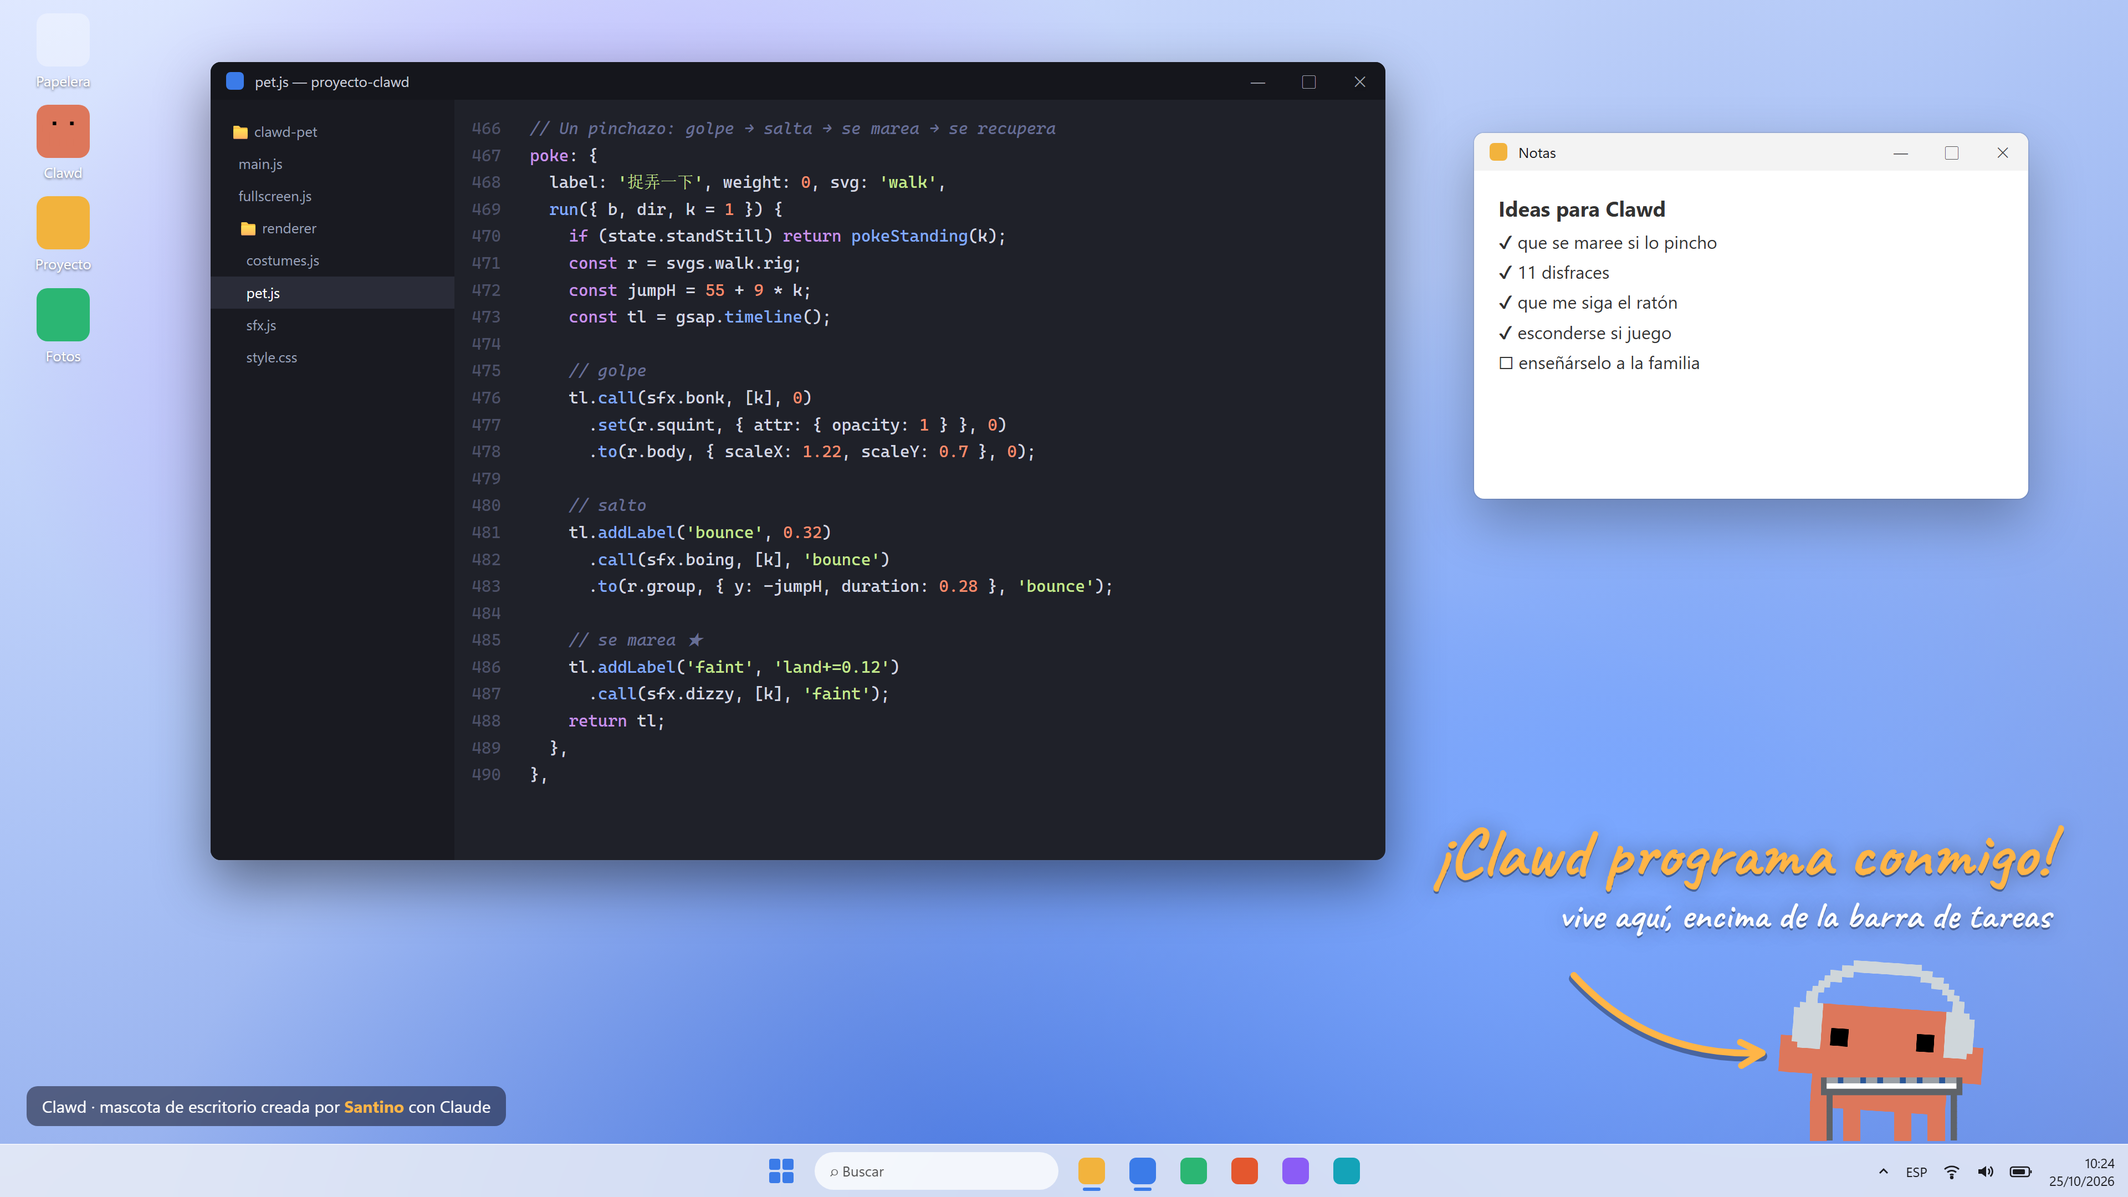
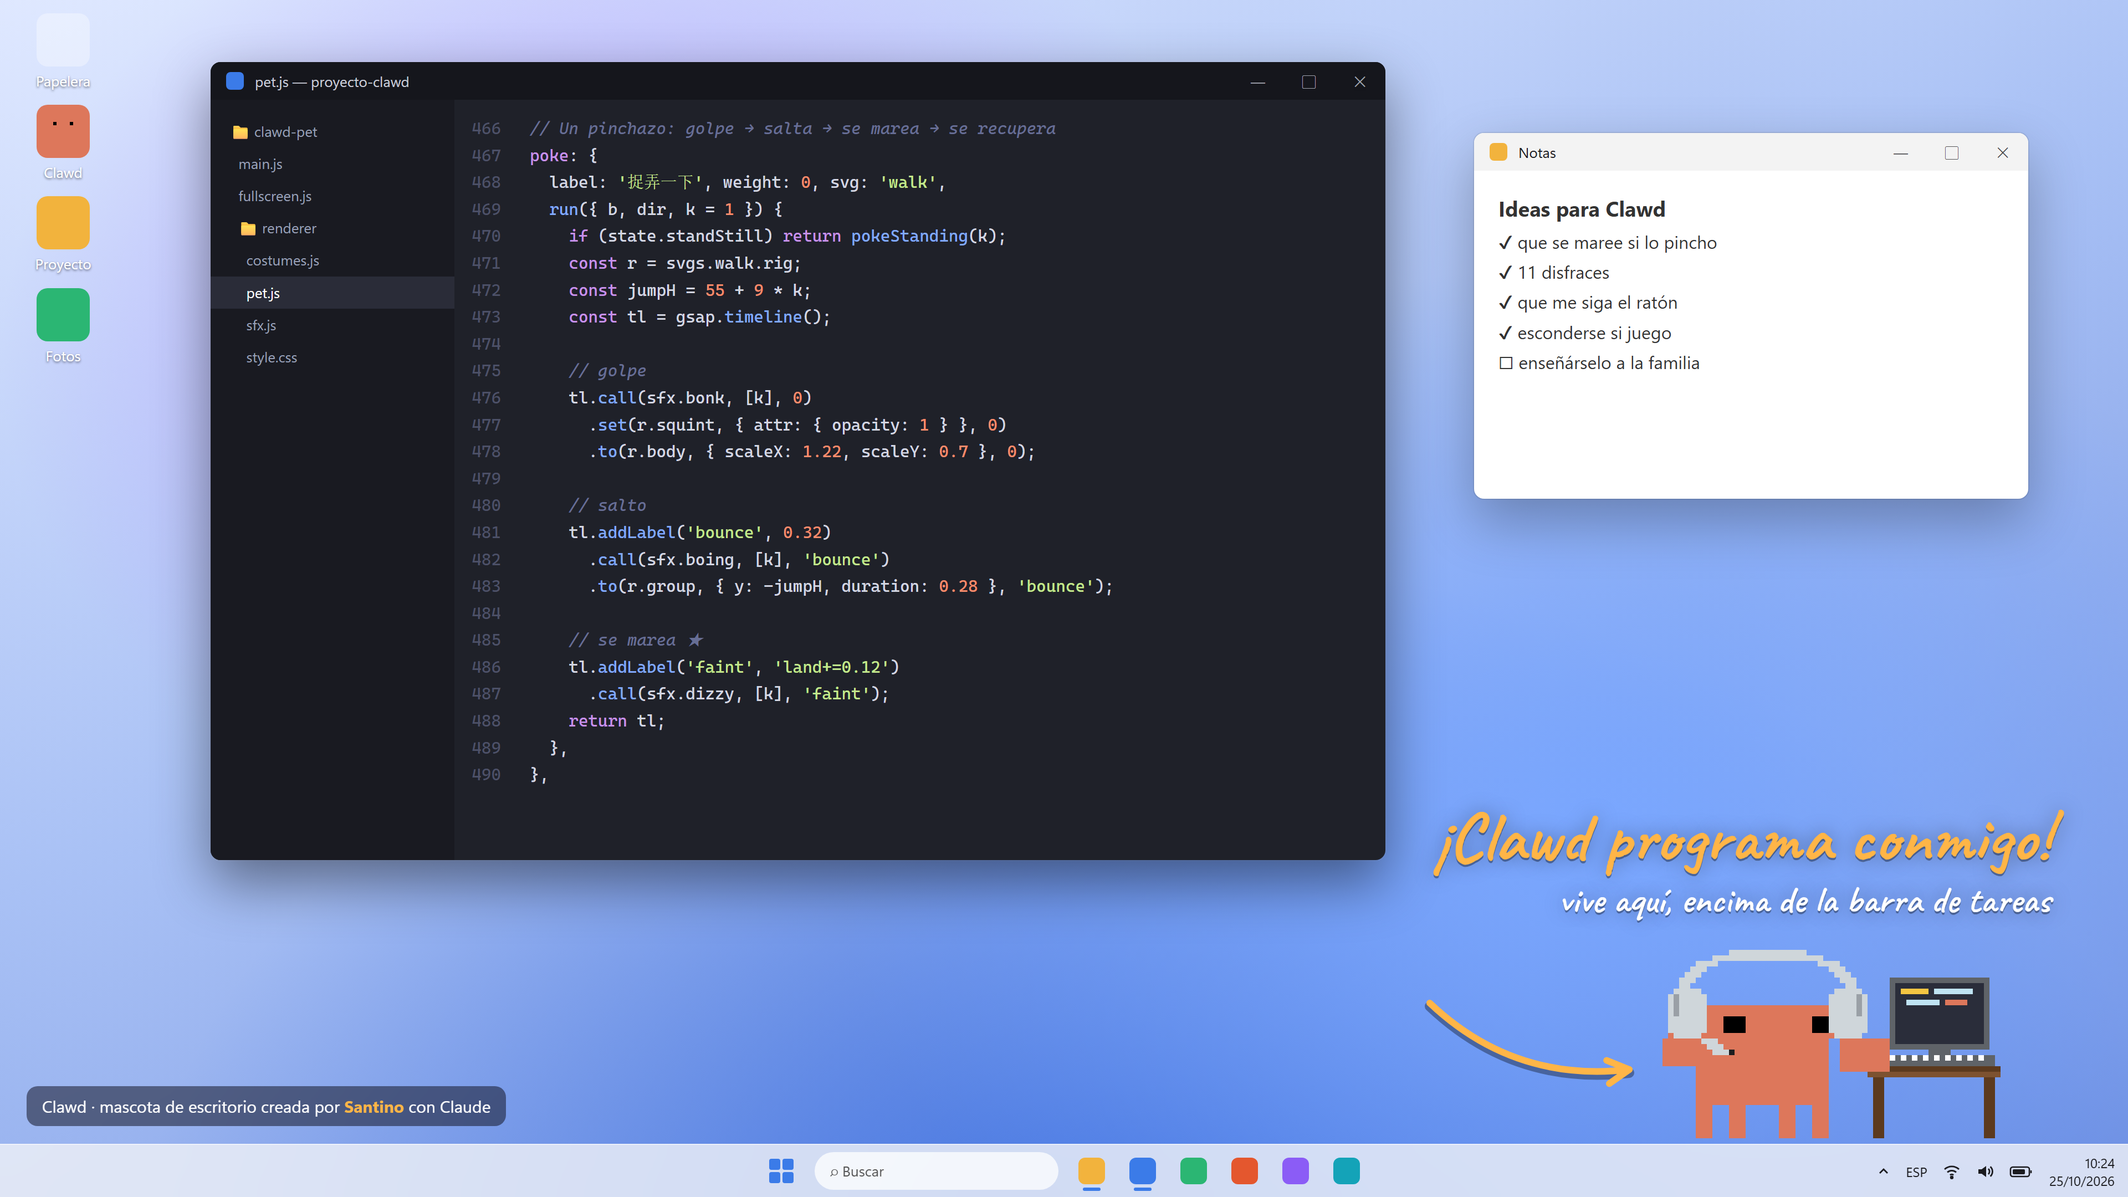
v1.1.1: pixel-art showcase images, hammer and wand fixes
- Regenerate the 2 posters and 4 desktop scenes from the new pixel renderer;
  sprites are sized in whole art pixels and grouped so Clawd matches across frames.
- Builder: set the hammer pivot before the drop so it no longer vanishes mid-swing.
- Wizard: same fix for the wand (the scale-0 pop-in rendered before the pivot was set).
- Drop the old v1.0 sprites and the gallery note about pre-pixel screenshots.

Changed region(s): [[0.6562, 0.6824, 0.9688, 0.9616], [0.7188, 0.8065, 0.75, 0.8375], [0.6562, 0.8375, 0.6875, 0.8685]]

diff --git a/showcase/poster1.html b/showcase/poster1.html
@@ -69,7 +69,7 @@
   .search { width: 210px; height: 30px; border-radius: 15px; background: rgba(255,255,255,.14); }
   .clock { margin-left: auto; font-family: 'Silkscreen', monospace; color: #fff; font-size: 20px; text-align: right; line-height: 1.05; }
   .clock small { display: block; font-size: 13px; opacity: .75; }
-  .hero-clawd { position: absolute; right: 128px; bottom: 112px; width: 262px; transform: rotate(-4deg); }
+  .hero-clawd { position: absolute; right: 134px; bottom: 112px; }
   .air-shadow { position: absolute; right: 160px; bottom: 58px; width: 210px; height: 22px; border-radius: 50%; background: rgba(31, 34, 64, 0.22); }
   .speed { position: absolute; height: 7px; border-radius: 4px; background: rgba(255,255,255,.85); }
   .cursor { position: absolute; right: 66px; bottom: 150px; transform: rotate(-14deg); }
@@ -109,8 +109,8 @@
   .film::before { top: 11px; } .film::after { bottom: 11px; }
   .frame { flex: 1; background: var(--paper); border-radius: 10px; position: relative; display: flex; flex-direction: column; align-items: center; justify-content: flex-end; padding: 10px 6px 12px; overflow: hidden; }
   .frame .time { position: absolute; top: 9px; left: 10px; font-family: 'Silkscreen'; font-size: 17px; background: var(--ink); color: var(--paper); padding: 3px 7px 2px; border-radius: 4px; }
-  .frame .art { flex: 1; display: flex; align-items: flex-end; justify-content: center; width: 100%; padding-top: 30px; }
-  .frame .art img { max-width: 92%; max-height: 132px; object-fit: contain; }
+  .frame .art { flex: 1; display: flex; align-items: flex-end; justify-content: center; width: 100%; padding-top: 34px; }
+  .frame .art img { max-width: 94%; max-height: 152px; object-fit: contain; }
   .frame b { font-family: 'Fredoka'; font-weight: 700; font-size: 27px; margin-top: 8px; }
   .frame.night { background: #2E3263; } .frame.night b { color: #fff; } .frame.night .time { background: var(--sun); color: var(--ink); }
   .moon { position: absolute; right: 12px; top: 10px; width: 26px; height: 26px; border-radius: 50%; box-shadow: -7px 3px 0 0 #FFE7A3; }
@@ -118,7 +118,7 @@
   /* ---------- how to play ---------- */
   .tips { left: 64px; right: 64px; top: 1566px; display: grid; grid-template-columns: 1fr 1fr; gap: 18px; }
   .tip { display: flex; align-items: center; gap: 16px; background: #fff; border: 3px solid var(--ink); border-radius: 18px; padding: 10px 18px; box-shadow: 5px 5px 0 var(--ink); }
-  .tip img { width: 86px; height: 70px; object-fit: contain; flex: none; }
+  .tip img { width: 100px; height: 84px; object-fit: contain; object-position: center bottom; flex: none; }
   .tip h3 { font-family: 'Fredoka'; font-weight: 700; font-size: 29px; line-height: 1; margin-bottom: 4px; }
   .tip p { font-size: 20px; font-weight: 700; color: var(--ink2); line-height: 1.2; }
   .tip:nth-child(1) { background: #FFE9DF; } .tip:nth-child(2) { background: #E3F1FB; } .tip:nth-child(3) { background: #EEE8FD; } .tip:nth-child(4) { background: #E4F5EC; }
@@ -151,7 +151,7 @@
       <div class="bubble">¡Ay! ¡No me pinches!</div>
       <div class="air-shadow"></div>
       <div class="speed" style="left:350px;top:250px;width:70px"></div><div class="speed" style="left:318px;top:282px;width:100px"></div><div class="speed" style="left:360px;top:314px;width:60px"></div>
-      <img class="hero-clawd px" src="sprites/hitair.png" alt="">
+      <img class="hero-clawd px" data-art="7" src="sprites/hitair.png" alt="">
       <div class="pok">¡POK!</div>
       <div class="cursor" id="cursor"></div>
       <div class="taskbar">
@@ -166,19 +166,19 @@
 
   <div class="abs sec-title" style="top:1160px">UN DÍA CON CLAWD</div>
   <div class="abs film">
-    <div class="frame"><span class="time">08:00</span><div class="art"><img class="px" src="sprites/typing.png"></div><b>Programa</b></div>
-    <div class="frame"><span class="time">12:00</span><div class="art"><img class="px" src="sprites/chef.png"></div><b>Cocina</b></div>
-    <div class="frame"><span class="time">16:00</span><div class="art"><img class="px" src="sprites/skate.png"></div><b>Patina</b></div>
-    <div class="frame"><span class="time">19:00</span><div class="art"><img class="px" src="sprites/gym.png"></div><b>Entrena</b></div>
-    <div class="frame night"><span class="time">23:00</span><span class="moon"></span><div class="art"><img class="px" src="sprites/sleepz.png"></div><b>A dormir</b></div>
+    <div class="frame"><span class="time">08:00</span><div class="art"><img class="px" data-group="film" src="sprites/typing.png"></div><b>Programa</b></div>
+    <div class="frame"><span class="time">12:00</span><div class="art"><img class="px" data-group="film" src="sprites/chef.png"></div><b>Cocina</b></div>
+    <div class="frame"><span class="time">16:00</span><div class="art"><img class="px" data-group="film" src="sprites/skate.png"></div><b>Patina</b></div>
+    <div class="frame"><span class="time">19:00</span><div class="art"><img class="px" data-group="film" src="sprites/gym.png"></div><b>Entrena</b></div>
+    <div class="frame night"><span class="time">23:00</span><span class="moon"></span><div class="art"><img class="px" data-group="film" src="sprites/sleepz.png"></div><b>A dormir</b></div>
   </div>
 
   <div class="abs sec-title" style="top:1512px">CÓMO JUGAR CON ÉL</div>
   <div class="abs tips">
-    <div class="tip"><img class="px" src="sprites/faint.png"><div><h3>Pínchalo</h3><p>Sale volando y ve estrellitas.</p></div></div>
-    <div class="tip"><img class="px" src="sprites/run.png"><div><h3>Te sigue</h3><p>Corre detrás de tu ratón.</p></div></div>
-    <div class="tip"><img class="px" src="sprites/wizard.png"><div><h3>Se disfraza</h3><p>11 trajes que se pone solo.</p></div></div>
-    <div class="tip"><img class="px" src="sprites/cool.png"><div><h3>Discreto</h3><p>Si juegas, se esconde.</p></div></div>
+    <div class="tip"><img class="px" data-group="tips" src="sprites/faint.png"><div><h3>Pínchalo</h3><p>Sale volando y ve estrellitas.</p></div></div>
+    <div class="tip"><img class="px" data-group="tips" src="sprites/run.png"><div><h3>Te sigue</h3><p>Corre detrás de tu ratón.</p></div></div>
+    <div class="tip"><img class="px" data-group="tips" src="sprites/music.png"><div><h3>Se disfraza</h3><p>11 trajes que se pone solo.</p></div></div>
+    <div class="tip"><img class="px" data-group="tips" src="sprites/cool.png"><div><h3>Discreto</h3><p>Si juegas, se esconde.</p></div></div>
   </div>
 
   <div class="abs credits" id="credits"></div>

diff --git a/showcase/poster2.html b/showcase/poster2.html
@@ -61,8 +61,8 @@
   <div class="abs stats">
     <div class="stat"><b>19</b><span>acciones<br>diferentes</span></div>
     <div class="stat"><b>18</b><span>sonidos creados<br>con código</span></div>
-    <div class="stat"><b>1.782</b><span>píxeles de<br>disfraces</span></div>
-    <div class="stat"><b>1.880</b><span>líneas de<br>código</span></div>
+    <div class="stat"><b>3.432</b><span>píxeles de<br>disfraces</span></div>
+    <div class="stat"><b>2.245</b><span>líneas de<br>código</span></div>
   </div>
   <div class="abs credits" id="credits"></div>
 
@@ -74,20 +74,20 @@
       ['music', 'Melómano', 'Cascos puestos y cabeza al ritmo.', 2, '#CFE3F7'],
       ['typing', 'Programador', 'Teclea más rápido que tú.', 2, '#DDE3EA'],
       ['skate', 'Skater', 'Cruza la pantalla y hace un ollie.', 3, '#E9D3DA'],
-      ['detective', 'Detective', 'Lupa en mano… ¡pista encontrada!', 3, '#E6DCC9'],
+      ['detective', 'Detective', 'Lupa en mano… ¡una pista!', 3, '#E6DCC9'],
       ['builder', 'Obrero', 'Martillazos con chispas incluidas.', 2, '#FCE7B0'],
       ['chef', 'Chef', 'Voltea tortitas en el aire.', 3, '#F7E1CF'],
       ['cowboy', 'Vaquero', 'Gira el lazo y… ¡yija!', 3, '#E8D7C3'],
       ['wizard', 'Mago', 'Un toque de varita y ¡chispas!', 4, '#DCD6F7'],
-      ['astronaut', 'Astronauta', 'Flota sin gravedad por tu escritorio.', 4, '#CFD8F0'],
-      ['party', 'De fiesta', 'Una mecha encendida en la cabeza.', 2, '#FFE2C2'],
+      ['astronaut', 'Astronauta', 'Flota sin gravedad.', 4, '#CFD8F0'],
+      ['party', 'De fiesta', 'Mecha encendida… ¡bum!', 2, '#FFE2C2'],
       ['cool', 'Muy cool', 'Gafas de sol que caen del cielo.', 5, '#FFE8A3'],
     ];
     const star = pixelSVG(ART.star, 2.6);
     document.getElementById('grid').innerHTML = CARDS.map(([img, name, desc, rarity, tint], i) => `
       <div class="card${rarity === 5 ? ' legend' : ''}">
         <div class="head"><span class="num">#${String(i + 1).padStart(2, '0')}</span><span class="stars">${star.repeat(rarity)}</span></div>
-        <div class="art" style="background:${tint}"><img class="px" src="sprites/${img}.png"></div>
+        <div class="art" style="background:${tint}"><img class="px" data-group="cards" src="sprites/${img}.png"></div>
         <h3>${name}</h3>
         <p>${desc}</p>
       </div>`).join('');

diff --git a/showcase/escritorio-3.html b/showcase/escritorio-3.html
@@ -51,14 +51,14 @@
           <div><h3 style="font-size:24px;margin:6px 0 10px">Preparación</h3>${[1,2,3].map(n => `<div style="display:flex;gap:12px;margin:8px 0"><b style="width:28px;height:28px;border-radius:50%;background:#f4a261;color:#fff;display:grid;place-items:center;font-size:14px;flex:none">${n}</b><div style="flex:1"><div class="line" style="width:95%;margin:6px 0"></div><div class="line" style="width:70%;margin:6px 0"></div></div></div>`).join('')}</div>
         </div></div>` });
 
-    const petW = 230, right = 120, lift = 120; // in the air above its home spot
+    const petW = 216, right = 120, lift = 120; // in the air above its home spot
     const left = 1920 - right - petW;
     document.getElementById('pet').innerHTML = `
       <div class="shadow" style="left:${left + 30}px;bottom:52px;width:${petW - 60}px"></div>
       <div class="speed" style="left:${left - 90}px;top:${1080 - 48 - lift - 150}px;width:70px"></div>
       <div class="speed" style="left:${left - 120}px;top:${1080 - 48 - lift - 120}px;width:100px"></div>
       <div class="speed" style="left:${left - 80}px;top:${1080 - 48 - lift - 90}px;width:60px"></div>
-      <img class="px" src="sprites/hitair.png" style="position:absolute;left:${left}px;bottom:${48 + lift}px;width:${petW}px;transform:rotate(-4deg)">
+      <img class="px" data-art="6" src="sprites/hitair.png" style="position:absolute;left:${left}px;bottom:${48 + lift}px">
       <div class="pok" style="left:${left + petW - 40}px;bottom:${48 + lift + 120}px;width:150px;height:118px;font-size:38px">¡POK!</div>
       <div style="position:absolute;left:${left + petW - 30}px;bottom:${48 + lift + 10}px;transform:rotate(-14deg)">${pixelSVG(ART.cursor, 3.2)}</div>`;
     document.getElementById('arrow').innerHTML = arrow(1560, 440, 1640, 650, 60);

diff --git a/showcase/pixel.js b/showcase/pixel.js
@@ -64,3 +64,34 @@ const ART = {
   note: ['..KKK', '..K.K', '..K..', 'KKK..', 'KKK..'],
   photo: ['KKKKKKKKKK', 'KBBBBBBBYK', 'KBBBBBBBBK', 'KBBGBBBBBK', 'KBGGGBBGBK', 'KGGGGGGGGK', 'KKKKKKKKKK'],
 };
+
+// Sprites are exported at 16 image px per art pixel. Resize every img.px so one art pixel is a
+// whole number of half CSS px (whole device px at the 2x export): never bigger than the layout
+// gave it, or exactly data-art CSS px per art pixel when set. Keeps every pixel the same size.
+const ART_PX = 16;
+// Images sharing a data-group all take the smallest size of the group, so Clawd is the same
+// size in every frame of a strip.
+function snapPixels(root = document) {
+  const imgs = [...root.querySelectorAll('img.px')].filter((img) => img.naturalWidth);
+  const arts = imgs.map((img) => {
+    const fixed = Number(img.dataset.art);
+    if (fixed) return fixed;
+    const r = img.getBoundingClientRect();
+    const cur = Math.min(r.width / img.naturalWidth, (r.height || Infinity) / img.naturalHeight) * ART_PX;
+    return Math.max(0.5, Math.floor(cur * 2) / 2);
+  });
+  const groupMin = {};
+  imgs.forEach((img, i) => {
+    const g = img.dataset.group;
+    if (g) groupMin[g] = Math.min(groupMin[g] ?? Infinity, arts[i]);
+  });
+  imgs.forEach((img, i) => {
+    const art = img.dataset.group ? groupMin[img.dataset.group] : arts[i];
+    Object.assign(img.style, {
+      width: `${(img.naturalWidth / ART_PX) * art}px`, height: `${(img.naturalHeight / ART_PX) * art}px`,
+      maxWidth: 'none', maxHeight: 'none', objectFit: 'fill', imageRendering: 'pixelated',
+    });
+    img.dataset.snapped = art;
+  });
+}
+window.addEventListener('load', () => snapPixels());

diff --git a/showcase/escritorio-1.html b/showcase/escritorio-1.html
@@ -20,8 +20,8 @@
   <div class="wall"></div>
   <div id="icons"></div>
   <div id="wins"></div>
-  <img class="pet px" src="sprites/typing.png" style="right:128px;width:190px">
-  <div class="note" style="right:70px;bottom:236px;font-size:62px;text-align:right">¡Clawd programa conmigo!<small>vive aquí, encima de la barra de tareas</small></div>
+  <img class="pet px" data-art="5" src="sprites/typing.png" style="right:110px">
+  <div class="note" style="right:70px;bottom:250px;font-size:62px;text-align:right">¡Clawd programa conmigo!<small>vive aquí, encima de la barra de tareas</small></div>
   <div id="arrow"></div>
   <div id="tag"></div>
   <div id="chrome"></div>
@@ -66,7 +66,7 @@
       windowFrame({ x: 190, y: 56, w: 1060, h: 720, title: 'pet.js — proyecto-clawd', icon: '#3b7be8', dark: true, body:
         `<div class="code"><div class="side"><div>📁 clawd-pet</div><div>&nbsp;&nbsp;main.js</div><div>&nbsp;&nbsp;fullscreen.js</div><div>&nbsp;&nbsp;📁 renderer</div><div>&nbsp;&nbsp;&nbsp;&nbsp;costumes.js</div><div class="on">&nbsp;&nbsp;&nbsp;&nbsp;pet.js</div><div>&nbsp;&nbsp;&nbsp;&nbsp;sfx.js</div><div>&nbsp;&nbsp;&nbsp;&nbsp;style.css</div></div>
          <div class="gutter">${Array.from({ length: lines }, (_, i) => 466 + i).join('<br>')}</div><div class="src">${code}</div></div>` });
-    document.getElementById('arrow').innerHTML = arrow(1420, 880, 1590, 950, 70);
+    document.getElementById('arrow').innerHTML = arrow(1290, 905, 1470, 965, 70);
     document.getElementById('tag').innerHTML = creditTag();
     document.getElementById('chrome').innerHTML = desktopChrome({ time: '10:24', date: '25/10/2026', openApps: [0, 1] });
   </script>

diff --git a/renderer/costumes.js b/renderer/costumes.js
@@ -513,10 +513,12 @@ const costumeActions = {
       const r = svgs.walk.rig;
       const c = r.costume;
       const pivot = at(27.5, 8); // where the right hand grips the handle
+      // fix the pivot now, while the hammer is untransformed (setting it mid-drop shifts it)
+      gsap.set(c.hammer, { svgOrigin: pivot, rotation: 0 });
       const tl = gsap.timeline();
       popOn(tl, c.hardhat);
       wear(tl, c.hammer, 0.15);
-      tl.set(c.hammer, { svgOrigin: pivot, rotation: 0 }, 0.15)
+      tl
         .fromTo(c.hammer, { y: -60 }, { y: 0, duration: 0.25, ease: 'bounce.out' }, 0.15);
       for (let i = 0; i < 4; i++) {
         const t = 0.6 + i * 0.85;
@@ -617,12 +619,13 @@ const costumeActions = {
     run() {
       const r = svgs.walk.rig;
       const c = r.costume;
+      // fix the pivot while the wand is untransformed (the scale-0 fromTo below renders at once)
+      gsap.set(c.wand, { svgOrigin: at(27, 11), rotation: 0, scale: 1, y: 0 });
       const tl = gsap.timeline();
       popOn(tl, c.wizHat);
       wear(tl, c.wand, 0.2);
       swapEyes(tl, r, c.happyEyes, 0.2);
-      tl.set(c.wand, { svgOrigin: at(27, 11) }, 0)
-        .fromTo(c.wand, { scale: 0 }, { scale: 1, duration: 0.25, ease: 'steps(3)' }, 0.2);
+      tl.fromTo(c.wand, { scale: 0 }, { scale: 1, duration: 0.25, ease: 'steps(3)' }, 0.2);
       for (let i = 0; i < 3; i++) {
         const t = 0.6 + i * 0.85;
         tl.to([c.wand, r.hands[1]], { y: -16, duration: 0.15 }, t)

diff --git a/showcase/escritorio-4.html b/showcase/escritorio-4.html
@@ -20,7 +20,7 @@
   <div class="wall"></div><div id="stars"></div><div class="moon"></div>
   <div id="icons"></div>
   <div id="wins"></div>
-  <img class="pet px" src="sprites/sleepz.png" style="right:125px;width:196px">
+  <img class="pet px" data-art="5" src="sprites/sleepz.png" style="right:125px">
   <div class="note" style="right:420px;bottom:200px;font-size:66px;text-align:right">A medianoche… se queda dormido<small>¡buenas noches, Clawd!</small></div>
   <div id="arrow"></div>
   <div id="tag"></div>
@@ -42,6 +42,10 @@
         <div class="meta"><b>Canción de cuna (8-bit)</b><span>Reproduciendo · Clawd Music</span>
           <div class="prog"><i></i></div><div class="ctrls"><span>⏮</span><span>⏸</span><span>⏭</span><span style="margin-left:auto;font-size:16px">2:41 / 4:10</span></div></div></div>` });
     document.getElementById('arrow').innerHTML = arrow(1460, 900, 1600, 960, 60);
+    // more pixel Zs drifting up from the sleeping sprite
+    const Z = ['OOOOO', '...O.', '..O..', '.O...', 'OOOOO'];
+    document.body.insertAdjacentHTML('beforeend', [[1800, 812, 6, 0.85], [1846, 738, 8, 0.6]].map(([x, y, c, o]) =>
+      `<div style="position:absolute;left:${x}px;top:${y}px;opacity:${o}">${pixelSVG(Z, c)}</div>`).join(''));
     document.getElementById('tag').innerHTML = creditTag();
     document.getElementById('chrome').innerHTML = desktopChrome({ time: '23:47', date: '25/10/2026', dark: true, openApps: [4] });
   </script>

diff --git a/showcase/escritorio-2.html b/showcase/escritorio-2.html
@@ -55,9 +55,9 @@
     const w = 210, x = 1360, y = 560;
     let pet = '';
     [[-170, 0.14], [-110, 0.26], [-55, 0.45]].forEach(([dx, op]) => {
-      pet += `<img class="ghost px" src="sprites/run.png" style="left:${x + dx}px;top:${y + 6}px;width:${w}px;opacity:${op}">`;
+      pet += `<img class="ghost px" data-art="5" src="sprites/run.png" style="left:${x + dx}px;top:${y + 6}px;opacity:${op}">`;
     });
-    pet += `<img class="ghost px" src="sprites/run.png" style="left:${x}px;top:${y}px;width:${w}px">`;
+    pet += `<img class="ghost px" data-art="5" src="sprites/run.png" style="left:${x}px;top:${y}px">`;
     pet += `<div class="ghost" style="left:${x + 300}px;top:${y - 40}px;transform:rotate(-6deg)">${pixelSVG(ART.cursor, 3.2)}</div>`;
     document.getElementById('pet').innerHTML = pet;
     document.getElementById('tag').innerHTML = creditTag();

diff --git a/README.md b/README.md
@@ -34,8 +34,6 @@ Todo se controla con **clic derecho** sobre Clawd. (Por ahora el menú está en 
 
 ## Galería
 
-*(Capturas de la versión 1.0, antes del estilo pixel art.)*
-
 | | |
 |---|---|
 | ![Te sigue el ratón](docs/images/Clawd-escritorio-2.png) | ![¡Pínchalo!](docs/images/Clawd-escritorio-3.png) |
